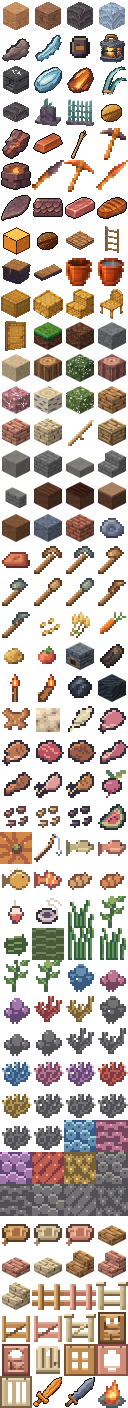
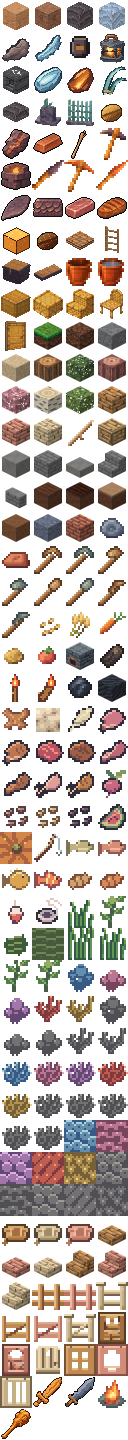
Clava de Madeira: item 177, dano 5, receita e espolio do Grunho (v0.225.0)
Item do Grunho e fabricavel (3 tabuas de carvalho + 2 hastes); o Grunho a solta com 25% de chance ao ser abatido (revoga o nao solta nada da ADR 0147); atlas de itens amplia para 4 x 45.

Claude-Session: https://claude.ai/code/session_01KGdgoniDf5SwPMM31qtkm2

diff --git a/src/titan/items.ts b/src/titan/items.ts
@@ -4,7 +4,7 @@ import { BLOCK_NAMES, doorFamily, doorId, isDoor, isTrapdoor, trapdoorId, fenceI
  * Itens do Titã (ADR 0040). O id é o índice do sprite no atlas da hotbar + 1 (`render/art/titan.ts`): a ordem do atlas não depende da ordem dos espaços da barra.
  * Os quatro primeiros coincidem com os ids de bloco `T.SAND … T.FROST`.
  */
-export const Item = { SAND: 1, DAMP_SAND: 2, DARK_ROCK: 3, FROST: 4, ROCK_SHARD: 5, FROST_SHARD: 6, CAPSULE: 7, LANTERN: 8, WORKBENCH: 9, ICE_LENS: 10, EMBER: 11, GLASS_REED: 12, SLAB: 13, MARCO: 14, PAINEL: 15, NOZ: 16, COPPER_SHARD: 17, COPPER_INGOT: 18, DRY_REED: 19, STONE_PICK: 20, BRAZIER: 21, STONE_DAGGER: 22, COPPER_PICK: 23, COPPER_DAGGER: 24, PLATE: 25, CARAPACE: 26, RAW_MEAT: 27, COOKED_MEAT: 28, EMBER_BLOCK: 29, NOZ_TORRADA: 30, ESTEIRA: 31, ESCADA: 32, BAU: 33, CAMA: 34, BALDE: 35, BALDE_CHEIO: 36, BLOCO_JUNCO: 37, LAJE_JUNCO: 38, DEGRAU_JUNCO: 39, CADEIRA_JUNCO: 40, PORTA_JUNCO: 41, GRASS: 42, DIRT: 43, STONE: 44, BEACH: 45, LOG_OAK: 46, LEAVES_OAK: 47, LOG_CHERRY: 48, LEAVES_CHERRY: 49, LOG_BIRCH: 50, LEAVES_BIRCH: 51, TABUA_CARVALHO: 52, TABUA_CEREJEIRA: 53, TABUA_BETULA: 54, HASTE: 55, MESA_CARPINTARIA: 56, PEDRA_LISA: 57, TIJOLO_PEDRA: 58, LAJE_PEDRA: 59, DEGRAU_PEDRA: 60, MURETA_PEDRA: 61, TERRA_ARADA_SECA: 62, TERRA_ARADA_UMIDA: 63, CAMINHO_TERRA: 64, TERRA_INFERTIL: 65, BLOCO_ARGILA: 66, BLOCO_TIJOLOS: 67, BOLA_ARGILA: 68, TIJOLO: 69, PICARETA_MADEIRA: 70, PICARETA_PEDRA: 71, MACHADO_MADEIRA: 72, MACHADO_PEDRA: 73, PA_MADEIRA: 74, PA_PEDRA: 75, ENXADA_MADEIRA: 76, ENXADA_PEDRA: 77, SEMENTE_TRIGO: 78, TRIGO: 79, CENOURA: 80, BATATA: 81, TOMATE: 82, FORNALHA: 83, CARVAO_VEGETAL: 84, TOCHA: 85, CARVAO: 87, BLOCO_CARVAO: 88, COURO: 89, LA: 90, PENA: 91, PORCO_CRU: 92, PORCO_ASSADO: 93, BOVINA_CRUA: 94, BIFE: 95, CARNEIRO_CRU: 96, CARNEIRO_ASSADO: 97, FRANGO_CRU: 98, FRANGO_ASSADO: 99, BETERRABA: 100, SEMENTE_BETERRABA: 101, SEMENTE_ABOBORA: 102, SEMENTE_MELANCIA: 103, FATIA_MELANCIA: 104, BLOCO_ABOBORA: 105, VARA_PESCA: 106, BACALHAU_CRU: 107, SALMAO_CRU: 108, BAIACU: 109, PEIXE_TROPICAL: 110, BACALHAU_ASSADO: 111, SALMAO_ASSADO: 112, BOIA: 113, LINHA: 114, ERVA_MARINHA: 115, ALGA: 116, ALGA_SECA: 117, BLOCO_ALGA_SECA: 118, CORAL_VIVO: 123, CORAL_MORTO: 128, GORGONIA_VIVA: 133, GORGONIA_MORTA: 138, BLOCO_CORAL_VIVO: 143, BLOCO_CORAL_MORTO: 148, BOTE_CARVALHO: 153, BOTE_BETULA: 154, BOTE_CEREJEIRA: 155, LAJE_CARVALHO: 156, LAJE_CEREJEIRA: 157, LAJE_BETULA: 158, DEGRAU_CARVALHO: 159, DEGRAU_CEREJEIRA: 160, DEGRAU_BETULA: 161, CERCA_CARVALHO: 162, CERCA_CEREJEIRA: 163, CERCA_BETULA: 164, PORTAO_CARVALHO: 165, PORTAO_CEREJEIRA: 166, PORTAO_BETULA: 167, PORTA_CARVALHO: 168, PORTA_CEREJEIRA: 169, PORTA_BETULA: 170, ALCAPAO_CARVALHO: 171, ALCAPAO_CEREJEIRA: 172, ALCAPAO_BETULA: 173, ESPADA_MADEIRA: 174, ESPADA_PEDRA: 175, FOGUEIRA: 176 } as const;
+export const Item = { SAND: 1, DAMP_SAND: 2, DARK_ROCK: 3, FROST: 4, ROCK_SHARD: 5, FROST_SHARD: 6, CAPSULE: 7, LANTERN: 8, WORKBENCH: 9, ICE_LENS: 10, EMBER: 11, GLASS_REED: 12, SLAB: 13, MARCO: 14, PAINEL: 15, NOZ: 16, COPPER_SHARD: 17, COPPER_INGOT: 18, DRY_REED: 19, STONE_PICK: 20, BRAZIER: 21, STONE_DAGGER: 22, COPPER_PICK: 23, COPPER_DAGGER: 24, PLATE: 25, CARAPACE: 26, RAW_MEAT: 27, COOKED_MEAT: 28, EMBER_BLOCK: 29, NOZ_TORRADA: 30, ESTEIRA: 31, ESCADA: 32, BAU: 33, CAMA: 34, BALDE: 35, BALDE_CHEIO: 36, BLOCO_JUNCO: 37, LAJE_JUNCO: 38, DEGRAU_JUNCO: 39, CADEIRA_JUNCO: 40, PORTA_JUNCO: 41, GRASS: 42, DIRT: 43, STONE: 44, BEACH: 45, LOG_OAK: 46, LEAVES_OAK: 47, LOG_CHERRY: 48, LEAVES_CHERRY: 49, LOG_BIRCH: 50, LEAVES_BIRCH: 51, TABUA_CARVALHO: 52, TABUA_CEREJEIRA: 53, TABUA_BETULA: 54, HASTE: 55, MESA_CARPINTARIA: 56, PEDRA_LISA: 57, TIJOLO_PEDRA: 58, LAJE_PEDRA: 59, DEGRAU_PEDRA: 60, MURETA_PEDRA: 61, TERRA_ARADA_SECA: 62, TERRA_ARADA_UMIDA: 63, CAMINHO_TERRA: 64, TERRA_INFERTIL: 65, BLOCO_ARGILA: 66, BLOCO_TIJOLOS: 67, BOLA_ARGILA: 68, TIJOLO: 69, PICARETA_MADEIRA: 70, PICARETA_PEDRA: 71, MACHADO_MADEIRA: 72, MACHADO_PEDRA: 73, PA_MADEIRA: 74, PA_PEDRA: 75, ENXADA_MADEIRA: 76, ENXADA_PEDRA: 77, SEMENTE_TRIGO: 78, TRIGO: 79, CENOURA: 80, BATATA: 81, TOMATE: 82, FORNALHA: 83, CARVAO_VEGETAL: 84, TOCHA: 85, CARVAO: 87, BLOCO_CARVAO: 88, COURO: 89, LA: 90, PENA: 91, PORCO_CRU: 92, PORCO_ASSADO: 93, BOVINA_CRUA: 94, BIFE: 95, CARNEIRO_CRU: 96, CARNEIRO_ASSADO: 97, FRANGO_CRU: 98, FRANGO_ASSADO: 99, BETERRABA: 100, SEMENTE_BETERRABA: 101, SEMENTE_ABOBORA: 102, SEMENTE_MELANCIA: 103, FATIA_MELANCIA: 104, BLOCO_ABOBORA: 105, VARA_PESCA: 106, BACALHAU_CRU: 107, SALMAO_CRU: 108, BAIACU: 109, PEIXE_TROPICAL: 110, BACALHAU_ASSADO: 111, SALMAO_ASSADO: 112, BOIA: 113, LINHA: 114, ERVA_MARINHA: 115, ALGA: 116, ALGA_SECA: 117, BLOCO_ALGA_SECA: 118, CORAL_VIVO: 123, CORAL_MORTO: 128, GORGONIA_VIVA: 133, GORGONIA_MORTA: 138, BLOCO_CORAL_VIVO: 143, BLOCO_CORAL_MORTO: 148, BOTE_CARVALHO: 153, BOTE_BETULA: 154, BOTE_CEREJEIRA: 155, LAJE_CARVALHO: 156, LAJE_CEREJEIRA: 157, LAJE_BETULA: 158, DEGRAU_CARVALHO: 159, DEGRAU_CEREJEIRA: 160, DEGRAU_BETULA: 161, CERCA_CARVALHO: 162, CERCA_CEREJEIRA: 163, CERCA_BETULA: 164, PORTAO_CARVALHO: 165, PORTAO_CEREJEIRA: 166, PORTAO_BETULA: 167, PORTA_CARVALHO: 168, PORTA_CEREJEIRA: 169, PORTA_BETULA: 170, ALCAPAO_CARVALHO: 171, ALCAPAO_CEREJEIRA: 172, ALCAPAO_BETULA: 173, ESPADA_MADEIRA: 174, ESPADA_PEDRA: 175, FOGUEIRA: 176, CLAVA_MADEIRA: 177 } as const;
 export type ItemId = (typeof Item)[keyof typeof Item];
 
 export const ITEM_NAMES: Record<number, string> = {
@@ -24,14 +24,14 @@ ITEM_NAMES[Item.CARVAO_VEGETAL] = 'Carvão Vegetal'; ITEM_NAMES[Item.CARVAO] = '
 ITEM_NAMES[Item.BOLA_ARGILA] = 'Bola de Argila'; ITEM_NAMES[Item.TIJOLO] = 'Tijolo'; // itens sem bloco (ADR 0111)
 ITEM_NAMES[Item.MURETA_PEDRA] = 'Mureta de Pedra'; // a conexão vem dos vizinhos (ADR 0110)
 Object.assign(ITEM_NAMES, { 153: 'Bote de Carvalho', 154: 'Bote de Bétula', 155: 'Bote de Cerejeira' }); // botes (ADR 0137): item sem bloco
-Object.assign(ITEM_NAMES, { 168: 'Porta de Carvalho', 169: 'Porta de Cerejeira', 170: 'Porta de Bétula', 171: 'Alçapão de Carvalho', 172: 'Alçapão de Cerejeira', 173: 'Alçapão de Bétula' , 174: 'Espada de Madeira', 175: 'Espada de Pedra', 176: 'Fogueira'}); // sem entrada em ORVALIS_ITEM_BLOCKS (ADR 0141)
+Object.assign(ITEM_NAMES, { 168: 'Porta de Carvalho', 169: 'Porta de Cerejeira', 170: 'Porta de Bétula', 171: 'Alçapão de Carvalho', 172: 'Alçapão de Cerejeira', 173: 'Alçapão de Bétula' , 174: 'Espada de Madeira', 175: 'Espada de Pedra', 176: 'Fogueira', 177: 'Clava de Madeira'}); // sem entrada em ORVALIS_ITEM_BLOCKS (ADR 0141)
 Object.assign(ITEM_NAMES, { 162: 'Cerca de Carvalho', 163: 'Cerca de Cerejeira', 164: 'Cerca de Bétula', 165: 'Portão de Carvalho', 166: 'Portão de Cerejeira', 167: 'Portão de Bétula' }); // sem entrada em ORVALIS_ITEM_BLOCKS (ADR 0140)
 Object.assign(ITEM_NAMES, { 159: 'Degrau de Carvalho', 160: 'Degrau de Cerejeira', 161: 'Degrau de Bétula' }); // sem entrada em ORVALIS_ITEM_BLOCKS: o giro vem do olhar (ADR 0139)
 ITEM_NAMES[Item.DEGRAU_PEDRA] = 'Degrau de Pedra'; // sem entrada em ORVALIS_ITEM_BLOCKS: o giro vem do olhar (ADR 0109)
 ITEM_NAMES[Item.HASTE] = 'Haste de Madeira'; // item sem bloco (ADR 0107)
 /** Pilhas: blocos, fragmentos, lente e brasa até 64; cápsula (legada, id reservado), lanterna e mesa até 1 (a mesa 1 por espaço: é uma peça grande). */
 export const maxStack = (item: number): number => (item === Item.CAPSULE || item === Item.LANTERN || item === Item.WORKBENCH || isBucket(item) || isTool(item) ? 1 : 64);
-export const isItem = (n: unknown): n is ItemId => Number.isInteger(n) && (n as number) >= 1 && ((n as number) <= 118 || ((n as number) >= 123 && (n as number) <= 176)) && n !== 86 && n !== 113; // 86 é só a textura da Tocha de parede no atlas (ADR 0121)
+export const isItem = (n: unknown): n is ItemId => Number.isInteger(n) && (n as number) >= 1 && ((n as number) <= 118 || ((n as number) >= 123 && (n as number) <= 177)) && n !== 86 && n !== 113; // 86 é só a textura da Tocha de parede no atlas (ADR 0121)
 /** Balde de Cobre (ADR 0091): vazio recolhe uma célula do lago, cheio a despeja. Pergunte aqui, nunca compare ids soltos. */
 /** Itens que fazem a mira acertar o líquido: o balde (ADR 0091) e a vara de pesca (ADR 0133). */
 export const isBoatItem = (item: number | undefined | null): boolean => item === Item.BOTE_CARVALHO || item === Item.BOTE_BETULA || item === Item.BOTE_CEREJEIRA;
@@ -118,7 +118,7 @@ export const foodOf = (item: number): { hunger: number; saturation: number } | n
  * Ferramenta nova entra aqui (nunca `item === …` solto no jogo).
  */
 export type Tier = 'wood' | 'rock' | 'copper';
-export type ToolKind = 'pick' | 'dagger' | 'axe' | 'shovel' | 'hoe' | 'sword';
+export type ToolKind = 'pick' | 'dagger' | 'axe' | 'shovel' | 'hoe' | 'sword' | 'club';
 export const TOOLS: Readonly<Record<number, { kind: ToolKind; tier: Tier }>> = {
   [Item.STONE_PICK]: { kind: 'pick', tier: 'rock' }, [Item.COPPER_PICK]: { kind: 'pick', tier: 'copper' },
   [Item.STONE_DAGGER]: { kind: 'dagger', tier: 'rock' }, [Item.COPPER_DAGGER]: { kind: 'dagger', tier: 'copper' },
@@ -127,6 +127,7 @@ export const TOOLS: Readonly<Record<number, { kind: ToolKind; tier: Tier }>> = {
   [Item.MACHADO_MADEIRA]: { kind: 'axe', tier: 'wood' }, [Item.MACHADO_PEDRA]: { kind: 'axe', tier: 'rock' },
   [Item.PA_MADEIRA]: { kind: 'shovel', tier: 'wood' }, [Item.PA_PEDRA]: { kind: 'shovel', tier: 'rock' },
   [Item.ENXADA_MADEIRA]: { kind: 'hoe', tier: 'wood' }, [Item.ENXADA_PEDRA]: { kind: 'hoe', tier: 'rock' },
+  [Item.CLAVA_MADEIRA]: { kind: 'club', tier: 'wood' }, // clava de madeira (ADR 0148)
   [Item.ESPADA_MADEIRA]: { kind: 'sword', tier: 'wood' }, [Item.ESPADA_PEDRA]: { kind: 'sword', tier: 'rock' }, // espadas do Orvalis (ADR 0145)
 };
 export const toolOf = (item: number | undefined | null): (typeof TOOLS)[number] | null => (item ? TOOLS[item] ?? null : null);
@@ -140,4 +141,6 @@ export const isShovel = (item: number | undefined | null): boolean => toolOf(ite
 export const isHoe = (item: number | undefined | null): boolean => toolOf(item)?.kind === 'hoe';
 export const isDagger = (item: number | undefined | null): boolean => toolOf(item)?.kind === 'dagger';
 /** Espada do Orvalis (ADR 0145). Arma de lâmina: gasta como a adaga (golpe −1, bloco −2). */
+/** Clava de Madeira do Orvalis (ADR 0148): arma pesada; gasta como a espada (golpe −1, bloco −2). */
+export const isClub = (item: number | undefined | null): boolean => toolOf(item)?.kind === 'club';
 export const isSword = (item: number | undefined | null): boolean => toolOf(item)?.kind === 'sword';

diff --git a/src/titan/titan.css b/src/titan/titan.css
@@ -28,7 +28,7 @@ body.titan #world { position: fixed; inset: 0; width: 100%; height: 100%; displa
 .titan-hurt { position: absolute; inset: 0; opacity: 0; pointer-events: none; background: radial-gradient(ellipse at center, rgba(150, 24, 24, 0) 38%, rgba(150, 24, 24, 0.6) 100%); }
 .titan-hurt.on { animation: titan-hurt 0.4s ease-out; }
 @keyframes titan-hurt { from { opacity: 1; } to { opacity: 0; } }
-.titan-icon { display: block; width: var(--ic); height: var(--ic); background-size: calc(var(--ic) * 4) calc(var(--ic) * 44); image-rendering: pixelated; pointer-events: none; }
+.titan-icon { display: block; width: var(--ic); height: var(--ic); background-size: calc(var(--ic) * 4) calc(var(--ic) * 45); image-rendering: pixelated; pointer-events: none; }
 .titan-slot .key { position: absolute; top: 2px; left: 3px; font: 700 10px ui-monospace, monospace; color: #f2cc93; text-shadow: 1px 1px #171410; pointer-events: none; }
 .titan-slot .count { position: absolute; right: 3px; bottom: 1px; font: 700 11px ui-monospace, monospace; font-style: normal; color: #fff3df; text-shadow: 1px 1px #171410; pointer-events: none; }
 .titan-craft { display: grid; gap: 6px; max-width: 200px; }
@@ -77,7 +77,7 @@ body.titan-aim-finger .titan-cross { display: none; } /* mira no dedo: sem cruze
 /* Bolsa e livro de receitas (ADR 0047): hotbar de 9 com ☰ fora dos espaços; grupos | receitas | grade de fabricação e item final (a bolsa é o último grupo) */
 .titan-hotbar { width: var(--hbw); box-sizing: border-box; justify-content: space-between; }
 .titan-hbmenu { position: absolute; left: calc(50% + var(--hbw) / 2 + 8px); bottom: var(--hbb); width: calc(var(--slot) + 14px); height: calc(var(--slot) + 14px); padding: 0; font-size: 22px; line-height: 1; pointer-events: auto; }
-.titan-icon.md { display: block; flex: none; width: var(--icm); height: var(--icm); background-size: calc(var(--icm) * 4) calc(var(--icm) * 44); }
+.titan-icon.md { display: block; flex: none; width: var(--icm); height: var(--icm); background-size: calc(var(--icm) * 4) calc(var(--icm) * 45); }
 .titan-panel { position: absolute; z-index: 5; left: 50%; transform: translateX(-50%); width: min(calc(100vw - 16px), 724px); box-sizing: border-box; bottom: calc(var(--hbb) + var(--slot) + 14px + 5px);
   height: min(calc(100vh - var(--hbb) - var(--slot) - 14px - 5px - max(6px, env(safe-area-inset-top))), 420px);
   display: flex; flex-direction: column; padding: 5px; overflow: hidden; background: #171c20f7; border: 1px solid #765943; border-radius: 6px; pointer-events: auto; touch-action: none; }
@@ -170,7 +170,7 @@ body.titan input { user-select: text; -webkit-user-select: text; }
 .titan-furnace .titan-fcol { display: inline-flex; flex-direction: column; align-items: center; gap: 3px; min-width: 0; }
 .titan-furnace .flabel { color: #cdb89a; font-size: 11px; white-space: nowrap; }
 .titan-furnace .titan-fslot { width: var(--fsz); height: var(--fsz); border-width: 2px; }
-.titan-furnace .titan-fslot .titan-icon { width: var(--icm); height: var(--icm); background-size: calc(var(--icm) * 4) calc(var(--icm) * 44); }
+.titan-furnace .titan-fslot .titan-icon { width: var(--icm); height: var(--icm); background-size: calc(var(--icm) * 4) calc(var(--icm) * 45); }
 .titan-furnace .titan-fslot .count { font-size: 12px; right: 4px; bottom: 2px; }
 .titan-furnace .titan-fslot.out { --icm: 64px; width: var(--fbig); height: var(--fbig); } /* o resultado em escala 2× (inteira) */
 .titan-furnace .titan-fslot.out .count { font-size: 14px; right: 5px; bottom: 3px; }
@@ -187,7 +187,7 @@ body.titan input { user-select: text; -webkit-user-select: text; }
 /* Bolsa e livro de receitas (ADR 0047): hotbar de 9 com ☰ fora dos espaços; grupos | receitas | grade de fabricação e item final (a bolsa é o último grupo) */
 .titan-hotbar { width: var(--hbw); box-sizing: border-box; justify-content: space-between; }
 .titan-hbmenu { position: absolute; left: calc(50% + var(--hbw) / 2 + 8px); bottom: var(--hbb); width: calc(var(--slot) + 14px); height: calc(var(--slot) + 14px); padding: 0; font-size: 22px; line-height: 1; pointer-events: auto; }
-.titan-icon.md { display: block; flex: none; width: var(--icm); height: var(--icm); background-size: calc(var(--icm) * 4) calc(var(--icm) * 44); }
+.titan-icon.md { display: block; flex: none; width: var(--icm); height: var(--icm); background-size: calc(var(--icm) * 4) calc(var(--icm) * 45); }
 .titan-panel { position: absolute; z-index: 5; left: 50%; transform: translateX(-50%); width: min(calc(100vw - 16px), 724px); box-sizing: border-box; bottom: calc(var(--hbb) + var(--slot) + 14px + 5px);
   height: min(calc(100vh - var(--hbb) - var(--slot) - 14px - 5px - max(6px, env(safe-area-inset-top))), 420px);
   display: flex; flex-direction: column; padding: 5px; overflow: hidden; background: #171c20f7; border: 1px solid #765943; border-radius: 6px; pointer-events: auto; touch-action: none; }

diff --git a/src/titan/orvalis/clava.test.ts b/src/titan/orvalis/clava.test.ts
@@ -1,0 +1,58 @@
+import { describe, expect, it } from 'vitest';
+import { attackGrunho, damageOf } from '../combat';
+import { GRUNHO, grunhoDrops, newGrunho } from '../grunho';
+import { HOTBAR, BAG } from '../inventory';
+import { isClub, isDagger, isItem, isSword, isTool, Item, ITEM_NAMES, maxStack, toolOf } from '../items';
+import { craft, recipeById } from '../recipes';
+import { MemoryTitanStorage } from '../save';
+import { openSession } from '../session';
+import { maxDurability, wearCost } from '../wear';
+import { T } from '../voxel';
+import { ORVALIS_GENERATOR_VERSION, OrvalisGenerator, orvalisGeneratorFor } from './generator';
+
+/** Clava de Madeira do Orvalis (ADR 0148): item 177, dano 5, durabilidade 59, 3 tábuas + 2 hastes; o Grunho a solta com 25% de chance. */
+const open = () => openSession(new MemoryTitanStorage(), 42, () => 1, orvalisGeneratorFor, ORVALIS_GENERATOR_VERSION, (s, v) => new OrvalisGenerator(s, v));
+type S = Awaited<ReturnType<typeof open>>;
+const hold = (s: S, item: number): void => { s.inventory.add(item, 1); const i = [...Array(HOTBAR + BAG).keys()].find((k) => s.inventory.get(k)?.item === item)!; s.selected = i; };
+
+describe('clava de madeira (ADR 0148)', () => {
+  it('item 177: nome, tipo clava (não espada nem adaga), nível madeira, pilha de 1, dano 5, durabilidade 59, desgaste como a espada', () => {
+    expect(Item.CLAVA_MADEIRA).toBe(177); expect(isItem(177) && !isItem(178)).toBe(true); expect(ITEM_NAMES[177]).toBe('Clava de Madeira');
+    expect(isTool(177)).toBe(true); expect(toolOf(177)).toEqual({ kind: 'club', tier: 'wood' }); expect(isClub(177) && !isSword(177) && !isDagger(177)).toBe(true);
+    expect(maxStack(177)).toBe(1); expect(maxDurability(177)).toBe(59); expect(damageOf(177)).toBe(5);
+    expect(wearCost(177, { type: 'attack' })).toBe(1); expect(wearCost(177, { type: 'break_block', block: T.STONE })).toBe(2); expect(wearCost(177, { type: 'break_block', block: T.LANTERN })).toBe(0);
+  });
+
+  it('receita na Mesa de Carpintaria (só no Orvalis): 3 tábuas de carvalho + 2 hastes', async () => {
+    const s = await open(), r = recipeById('clava-madeira')!;
+    expect(r.world).toBe('orvalis'); expect(r.station).toBe('workbench'); expect(r.result).toEqual({ item: Item.CLAVA_MADEIRA, count: 1 });
+    expect(r.ingredients).toEqual([{ item: Item.TABUA_CARVALHO, count: 3 }, { item: Item.HASTE, count: 2 }]);
+    s.inventory.add(Item.TABUA_CARVALHO, 3); s.inventory.add(Item.HASTE, 2);
+    expect(craft(s.inventory, r, null)).toEqual({ ok: false, reason: 'station' });
+    expect(craft(s.inventory, r, 'workbench').ok).toBe(true); expect(s.inventory.total(Item.CLAVA_MADEIRA)).toBe(1);
+  });
+
+  it('espólio do Grunho: 25% de chance, determinístico (mesmo goblin e instante dão o mesmo resultado) e nunca mais que 1 clava', () => {
+    expect(GRUNHO.dropChance).toBe(0.25);
+    let drops = 0; const N = 800;
+    for (let i = 0; i < N; i++) {
+      const g = newGrunho({ id: `g:t:${i}`, x: 10, y: 70, z: 10, campX: 10, campZ: 10 }, 42); g.clock = i * 0.37;
+      const a = grunhoDrops(g, 42); expect(grunhoDrops(g, 42)).toEqual(a); expect(a.length).toBeLessThanOrEqual(1);
+      if (a.length) { drops++; expect(a[0]).toEqual({ item: Item.CLAVA_MADEIRA, count: 1 }); }
+    }
+    expect(drops / N).toBeGreaterThan(0.18); expect(drops / N).toBeLessThan(0.32);
+  });
+
+  it('no jogo: a clava tira 5 do Grunho; ao abater, a clava cai no chão quando o sorteio dá, com a mensagem; sem sorteio, nada', async () => {
+    const s = await open(); hold(s, Item.CLAVA_MADEIRA);
+    let withDrop = 0, without = 0;
+    for (let i = 0; i < 120 && (!withDrop || !without); i++) {
+      const g = newGrunho({ id: `g:k:${i}`, x: 10, y: 70, z: 10, campX: 10, campZ: 10 }, 42); g.clock = i * 0.9; g.hp = 5; s.grunhos = [g];
+      const before = s.drops.size, r = attackGrunho(s, 0, 'p');
+      expect(r).toMatchObject({ ok: true, damage: 5, dead: true });
+      if (grunhoDrops(g, 42).length) { withDrop++; expect(s.drops.size).toBe(before + 1); expect(r.msg).toContain('1 Clava de Madeira'); }
+      else { without++; expect(s.drops.size).toBe(before); expect(r.msg).toBe('Grunho abatido'); }
+    }
+    expect(withDrop).toBeGreaterThan(0); expect(without).toBeGreaterThan(0);
+  });
+});

diff --git a/src/titan/combat.ts b/src/titan/combat.ts
@@ -3,7 +3,7 @@ import { Item, ITEM_NAMES } from './items';
 import type { TitanSession } from './session';
 import { restDrop, wearHeldTool } from './actions';
 import { FAUNA_KINDS, faunaLoot, hurtFauna } from './fauna';
-import { grunhoAlive, hurtGrunho } from './grunho';
+import { grunhoAlive, grunhoDrops, hurtGrunho } from './grunho';
 
 /**
  * Combate com os Farejadores de Duna (ADR 0069): o jogador golpeia o animal na mira (toque curto, alcance de 3 m, pausa de 0,6 s entre golpes). Dano pela arma na mão; a adaga é arma (desgasta −1), a
@@ -16,7 +16,7 @@ export const ATTACK_COOLDOWN_S = 0.6;
 export const FIST_DAMAGE = 1;
 export const WEAPON_DAMAGE: Readonly<Record<number, number>> = { [Item.STONE_DAGGER]: 4, [Item.COPPER_DAGGER]: 6, [Item.STONE_PICK]: 2, [Item.COPPER_PICK]: 3,
   [Item.PICARETA_MADEIRA]: 1, [Item.PICARETA_PEDRA]: 2, [Item.MACHADO_MADEIRA]: 2, [Item.MACHADO_PEDRA]: 3, [Item.PA_MADEIRA]: 1, [Item.PA_PEDRA]: 2, [Item.ENXADA_MADEIRA]: 1, [Item.ENXADA_PEDRA]: 1,
-  [Item.ESPADA_MADEIRA]: 4, [Item.ESPADA_PEDRA]: 5 }; // Orvalis (ADR 0112); espadas: dano da Java (ADR 0145, Fandom; a Wiki oficial não abriu na consulta)
+  [Item.ESPADA_MADEIRA]: 4, [Item.ESPADA_PEDRA]: 5, [Item.CLAVA_MADEIRA]: 5 }; // Orvalis (ADR 0112); espadas: dano da Java (ADR 0145, Fandom; a Wiki oficial não abriu na consulta)
 export const damageOf = (item: number | undefined | null): number => (item ? WEAPON_DAMAGE[item] ?? FIST_DAMAGE : FIST_DAMAGE);
 /** O que cada tamanho solta ao ser abatido: porções de carne crua e placas de carapaça. */
 export const LOOT: Readonly<Record<Kind, { meat: number; plate: number }>> = { pequeno: { meat: 1, plate: 1 }, grande: { meat: 2, plate: 1 } };
@@ -81,8 +81,8 @@ export function attackFauna(s: TitanSession, index: number): AttackResult {
 }
 
 /**
- * Golpe do jogador num Grunho (ADR 0147): dano pela arma da mão (`damageOf`), desgaste como em todo golpe, e o goblin passa a perseguir quem bateu. Abatido, não solta nada e
- * volta ao acampamento em `GRUNHO.respawnS` (decisão aprovada). `by` = id de quem bateu (na sala, o jogador; no aparelho, `null`).
+ * Golpe do jogador num Grunho (ADR 0147): dano pela arma da mão (`damageOf`), desgaste como em todo golpe, e o goblin passa a perseguir quem bateu. Abatido, solta a Clava de Madeira com 25% de chance (ADR 0148) e
+ * volta ao acampamento em `GRUNHO.respawnS`. `by` = id de quem bateu (na sala, o jogador; no aparelho, `null`).
  */
 export function attackGrunho(s: TitanSession, index: number, by: string | null = null): AttackResult {
   const g = s.grunhos[index];
@@ -91,5 +91,11 @@ export function attackGrunho(s: TitanSession, index: number, by: string | null =
   const w = wearHeldTool(s, { type: 'attack' });
   const r = hurtGrunho(g, damage, by);
   const broke = w.broken ? `${w.name} quebrou` : undefined;
-  return { ok: true, damage, dead: r.dead, broken: w.broken, toolName: w.name, msg: r.dead ? `Grunho abatido${broke ? `; ${broke}` : ''}` : broke };
+  if (!r.dead) return { ok: true, damage, dead: false, broken: w.broken, toolName: w.name, msg: broke };
+  const loot = grunhoDrops(g, s.seed), base = `m:${g.id}`;
+  let n = 0;
+  while (s.drops.has(`${base}:${n}`)) n++; // o goblin volta: um espólio antigo ainda no chão não apaga o novo
+  loot.forEach((l, i) => restDrop(s, `${base}:${n}:${i}`, l.item, g.body.x, g.body.y, g.body.z, l.count));
+  const txt = loot.map((l) => `${l.count} ${ITEM_NAMES[l.item]}`).join(', ');
+  return { ok: true, damage, dead: true, broken: w.broken, toolName: w.name, msg: `Grunho abatido${txt ? `: ${txt}` : ''}${broke ? `; ${broke}` : ''}` };
 }

diff --git a/src/titan/recipes.ts b/src/titan/recipes.ts
@@ -67,6 +67,7 @@ export const RECIPES: readonly Recipe[] = [
   // Ferramentas do Orvalis em voxel (ADR 0112), na Mesa de Carpintaria; a de madeira só de tábuas de carvalho por ora (pendência: "qualquer tábua")
   { id: 'picareta-madeira', name: 'Picareta de Madeira', group: 'ferramentas', result: { item: Item.PICARETA_MADEIRA, count: 1 }, ingredients: [{ item: Item.TABUA_CARVALHO, count: 3 }, { item: Item.HASTE, count: 2 }], station: 'workbench', world: 'orvalis' },
   { id: 'picareta-pedra', name: 'Picareta de Pedra', group: 'ferramentas', result: { item: Item.PICARETA_PEDRA, count: 1 }, ingredients: [{ item: Item.STONE, count: 3 }, { item: Item.HASTE, count: 2 }], station: 'workbench', world: 'orvalis' },
+  { id: 'clava-madeira', name: 'Clava de Madeira', group: 'ferramentas', result: { item: Item.CLAVA_MADEIRA, count: 1 }, ingredients: [{ item: Item.TABUA_CARVALHO, count: 3 }, { item: Item.HASTE, count: 2 }], station: 'workbench', world: 'orvalis' }, // a clava do Grunho (ADR 0148)
   { id: 'espada-madeira', name: 'Espada de Madeira', group: 'ferramentas', result: { item: Item.ESPADA_MADEIRA, count: 1 }, ingredients: [{ item: Item.TABUA_CARVALHO, count: 2 }, { item: Item.HASTE, count: 1 }], station: 'workbench', world: 'orvalis' },
   { id: 'espada-pedra', name: 'Espada de Pedra', group: 'ferramentas', result: { item: Item.ESPADA_PEDRA, count: 1 }, ingredients: [{ item: Item.STONE, count: 2 }, { item: Item.HASTE, count: 1 }], station: 'workbench', world: 'orvalis' },
   { id: 'machado-madeira', name: 'Machado de Madeira', group: 'ferramentas', result: { item: Item.MACHADO_MADEIRA, count: 1 }, ingredients: [{ item: Item.TABUA_CARVALHO, count: 3 }, { item: Item.HASTE, count: 2 }], station: 'workbench', world: 'orvalis' },

diff --git a/src/titan/wear.ts b/src/titan/wear.ts
@@ -13,7 +13,7 @@ export const MAX_DURABILITY: Readonly<Record<number, number>> = {
   [Item.PICARETA_MADEIRA]: 59, [Item.MACHADO_MADEIRA]: 59, [Item.PA_MADEIRA]: 59, [Item.ENXADA_MADEIRA]: 59,
   [Item.VARA_PESCA]: 64, // Wiki (Java): 64 usos, 1 por captura (ADR 0133)
   [Item.PICARETA_PEDRA]: 131, [Item.MACHADO_PEDRA]: 131, [Item.PA_PEDRA]: 131, [Item.ENXADA_PEDRA]: 131,
-  [Item.ESPADA_MADEIRA]: 59, [Item.ESPADA_PEDRA]: 131, // espadas do Orvalis (ADR 0145): como as outras ferramentas de madeira e pedra
+  [Item.CLAVA_MADEIRA]: 59, [Item.ESPADA_MADEIRA]: 59, [Item.ESPADA_PEDRA]: 131, // espadas do Orvalis (ADR 0145): como as outras ferramentas de madeira e pedra
 };
 export const maxDurability = (item: number): number | null => MAX_DURABILITY[item] ?? null;
 
@@ -29,8 +29,8 @@ export function wearCost(tool: number, action: WearAction): number {
   const t = toolOf(tool);
   if (!t) return 0;
   if (action.type === 'use') return 1; // arar com a enxada, abrir caminho com a pá (ADR 0112)
-  if (action.type === 'break_block') return isCollectBlock(action.block) ? 0 : t.kind === 'dagger' || t.kind === 'sword' ? 2 : 1;
-  return t.kind === 'dagger' || t.kind === 'sword' ? 1 : 2;
+  if (action.type === 'break_block') return isCollectBlock(action.block) ? 0 : t.kind === 'dagger' || t.kind === 'sword' || t.kind === 'club' ? 2 : 1;
+  return t.kind === 'dagger' || t.kind === 'sword' || t.kind === 'club' ? 1 : 2;
 }
 
 /** Fração de vida restante (1 = nova, 0 = quebrando), ou `null` se o item não se desgasta ou está intacto (a barra só aparece depois do primeiro desgaste). */

diff --git a/src/titan/grunho.ts b/src/titan/grunho.ts
@@ -1,6 +1,7 @@
 import { hash2 } from '../world/random';
 import { faunaYaw, rayAabb, type AabbBox } from './fauna';
 import { newBody, stepBody, type Body } from './physics';
+import { Item } from './items';
 import type { TitanVolume } from './volume';
 
 /**
@@ -25,6 +26,8 @@ export const GRUNHO = {
   width: 0.7, height: 1.4,
   /** Depois de abatido, volta em tantos segundos. */
   respawnS: 600,
+  /** Chance de soltar a Clava de Madeira ao ser abatido (ADR 0148; o sorteio é da seed, do goblin e do instante). */
+  dropChance: 0.25,
 } as const;
 
 const WALK_REF = 4.3; // a caminhada do jogador (physics.ts): o `stepBody` lê a entrada como fração dela
@@ -154,6 +157,9 @@ export function hurtGrunho(g: Grunho, damage: number, by: string | null = null):
   if (by) { g.target = by; if (g.phase !== 'chase') { g.phase = 'chase'; g.t = 0; } }
   return { dead: false };
 }
+
+/** Espólio do abate: a Clava de Madeira com `dropChance` (determinístico: seed, goblin e instante do abate); senão nada. */
+export const grunhoDrops = (g: Grunho, seed: number): Array<{ item: number; count: number }> => (hash2(seed, g.seed, Math.floor(g.clock * 10) + 17) < GRUNHO.dropChance ? [{ item: Item.CLAVA_MADEIRA, count: 1 }] : []);
 
 export const grunhoAlive = (g: Grunho): boolean => g.phase !== 'dead';
 

diff --git a/src/titan/desgaste.test.ts b/src/titan/desgaste.test.ts
@@ -11,7 +11,7 @@ const slotOf = (s: { inventory: Inventory }, item: number): number => Array.from
 
 describe('durabilidade das ferramentas (ADR 0067)', () => {
   it('tabela e custos do Minecraft: picareta −1 no bloco e −2 no golpe; adaga −2 no bloco e −1 no golpe; recolhimento instantâneo não gasta', () => {
-    expect(maxDurability(Item.STONE_PICK)).toBe(131); expect(maxDurability(Item.COPPER_DAGGER)).toBe(190); expect(maxDurability(Item.NOZ)).toBeNull(); expect(Object.keys(MAX_DURABILITY)).toHaveLength(15); // as 4 do Titã e as 8 do Orvalis (ADR 0112)
+    expect(maxDurability(Item.STONE_PICK)).toBe(131); expect(maxDurability(Item.COPPER_DAGGER)).toBe(190); expect(maxDurability(Item.NOZ)).toBeNull(); expect(Object.keys(MAX_DURABILITY)).toHaveLength(16); // as 4 do Titã e as 8 do Orvalis (ADR 0112)
     for (const [tool, block, atk] of [[Item.STONE_PICK, 1, 2], [Item.COPPER_PICK, 1, 2], [Item.STONE_DAGGER, 2, 1], [Item.COPPER_DAGGER, 2, 1]] as const) {
       expect(wearCost(tool, { type: 'break_block', block: T.DARK_ROCK })).toBe(block); expect(wearCost(tool, { type: 'attack' })).toBe(atk);
     }

diff --git a/src/titan/orvalis/cercaPortao.test.ts b/src/titan/orvalis/cercaPortao.test.ts
@@ -30,7 +30,7 @@ describe('cerca e portão de madeira (ADR 0140)', () => {
       for (let m = 0; m < 16; m++) { const id = fenceId(k.w, m); expect(isFence(id) && woodOf(id) === k.w && fenceMask(id) === m).toBe(true); expect(itemOfBlock(id)).toBe(k.fence); expect(modelOf(id)).toEqual({ kind: FENCE_KINDS[k.w * 16 + m], turn: 0 }); expect(surfaceOf(id)).toBe('rock'); }
       for (let t = 0; t < 4; t++) for (const op of [false, true]) { const id = gateId(k.w, t, op); expect(isGate(id) && woodOf(id) === k.w && gateTurn(id) === t && isGateOpen(id) === op).toBe(true); expect(itemOfBlock(id)).toBe(k.gate); expect(modelOf(id)).toEqual({ kind: GATE_KINDS[k.w * 2 + (op ? 1 : 0)], turn: t }); expect(gateToggled(gateToggled(id))).toBe(id); }
     }
-    expect(isItem(177)).toBe(false);
+    expect(isItem(178)).toBe(false);
   });
 
   it('forma: cerca e portão fechado são sólidos não cúbicos; o portão aberto é só alvo da mira; modelos têm geometria', () => {

diff --git a/src/titan/orvalis/fogueira.test.ts b/src/titan/orvalis/fogueira.test.ts
@@ -17,7 +17,7 @@ const top = (x: number, y: number, z: number) => ({ x, y, z, nx: 0, ny: 1, nz: 0
 describe('fogueira do Orvalis (ADR 0146)', () => {
   it('bloco 424 e item 176: modelo, luz 15, não sólida, alvo da mira, não bloqueia luz, ida e volta item ↔ bloco', () => {
     expect(T.CAMPFIRE).toBe(424); expect(T_MAX).toBe(424); expect(Item.FOGUEIRA).toBe(176);
-    expect(isCampfire(T.CAMPFIRE)).toBe(true); expect(isItem(176) && !isItem(177)).toBe(true);
+    expect(isCampfire(T.CAMPFIRE)).toBe(true); expect(isItem(176) && isItem(177) && !isItem(178)).toBe(true);
     expect(ITEM_NAMES[176]).toBe('Fogueira'); expect(maxStack(176)).toBeGreaterThan(1);
     expect(modelOf(T.CAMPFIRE)).toEqual({ kind: 'fogueira', turn: 0 });
     expect(lightLevelOf(T.CAMPFIRE)).toBe(CAMPFIRE_LIGHT); expect(CAMPFIRE_LIGHT).toBe(15);

diff --git a/src/titan/orvalis/corais.test.ts b/src/titan/orvalis/corais.test.ts
@@ -28,7 +28,7 @@ describe('corais (ADR 0136)', () => {
       expect(block).toBe(base + (n % 10)); expect(isItem(item)).toBe(true); expect(itemOfBlock(block)).toBe(item); expect(ITEM_NAMES[item]).toBeTruthy();
       expect(isCoral(block)).toBe(true); expect(isCoralLive(block)).toBe(n % 10 < 5); expect(coralFamily(block)).toBe(n % 5);
     }
-    expect(isItem(177)).toBe(false); expect(isItem(122)).toBe(false);
+    expect(isItem(178)).toBe(false); expect(isItem(122)).toBe(false);
     expect(ITEM_NAMES[Item.CORAL_VIVO]).toBe('Coral de Tubo'); expect(ITEM_NAMES[Item.BLOCO_CORAL_MORTO + 4]).toBe('Bloco de Coral de Chifre Morto');
     expect(deadCoral(T.CORAL_BLOCK + 3)).toBe(T.CORAL_BLOCK + 8); expect(deadCoral(T.CORAL_BLOCK + 8)).toBe(T.CORAL_BLOCK + 8);
     for (let i = 0; i < 10; i++) {

diff --git a/src/titan/orvalis/botes.test.ts b/src/titan/orvalis/botes.test.ts
@@ -29,7 +29,7 @@ describe('botes (ADR 0137)', () => {
       const r = RECIPES.find((x) => x.id === `bote-${BOAT_KINDS[i]}`)!;
       expect(r.station).toBe('workbench'); expect(r.world).toBe('orvalis'); expect(r.ingredients).toEqual([{ item: [Item.TABUA_CARVALHO, Item.TABUA_BETULA, Item.TABUA_CEREJEIRA][i], count: 5 }]); expect(r.result).toEqual({ item: w, count: 1 });
     }
-    expect(isItem(177)).toBe(false); expect(isBoatItem(Item.VARA_PESCA)).toBe(false);
+    expect(isItem(178)).toBe(false); expect(isBoatItem(Item.VARA_PESCA)).toBe(false);
   });
   it('põe o bote na superfície; recusa em terra, sem espaço e por cima de outro', async () => {
     const { s, cx, cz } = await lagoon();
